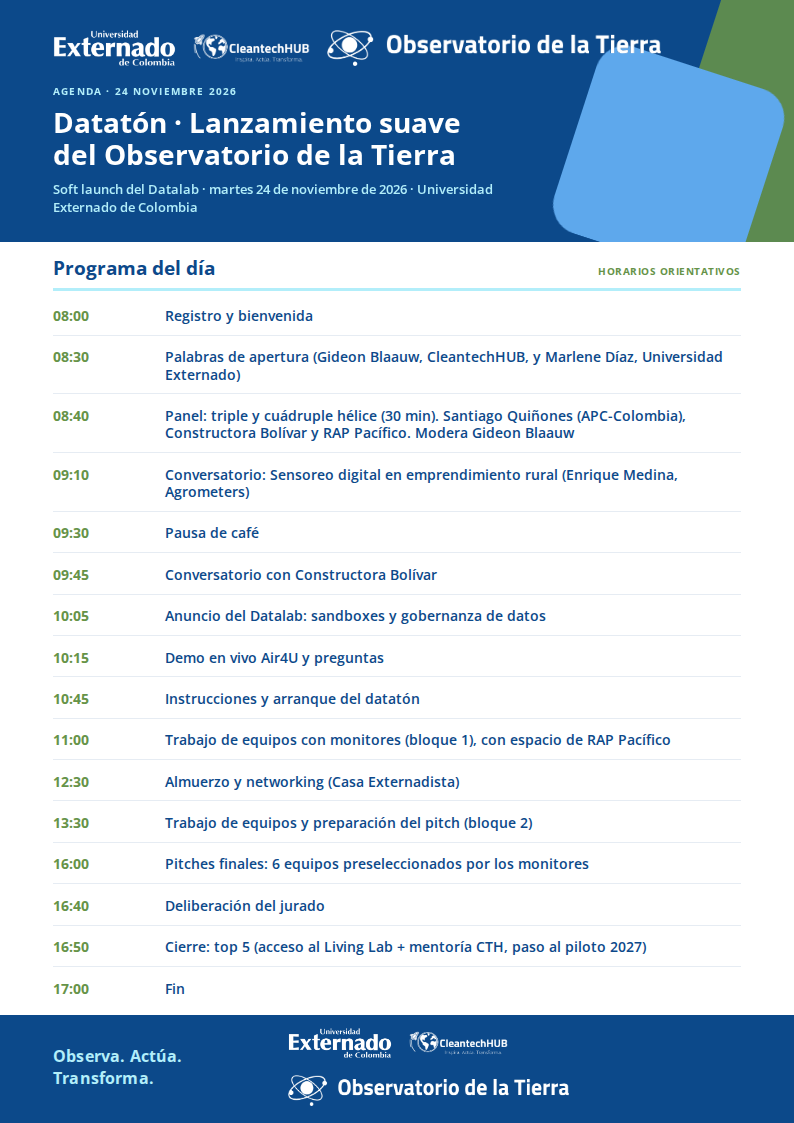
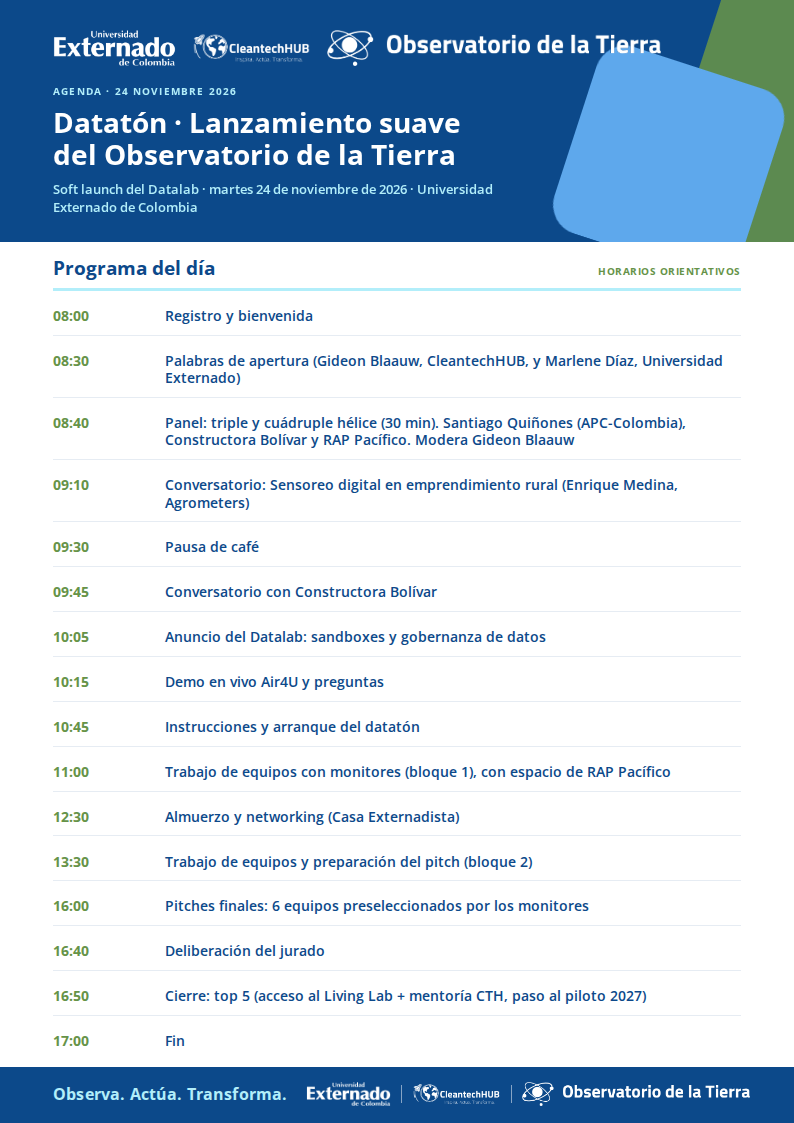
Fix agenda footer: one-line tagline and divided co-brand strip
Put tagline and Externado|CTH|Observatorio marks on a single navy band with thin dividers and 6-7mm logo heights.

diff --git a/decks/dataton-2026-agenda/agenda-dataton-24nov-v2.html b/decks/dataton-2026-agenda/agenda-dataton-24nov-v2.html
@@ -191,11 +191,13 @@
       flex-shrink: 0;
       background: var(--blue);
       color: #fff;
-      padding: 3.5mm 14mm 4.5mm;
+      padding: 3.5mm 14mm 4mm;
       display: flex;
+      flex-direction: row;
+      flex-wrap: nowrap;
       align-items: center;
       justify-content: space-between;
-      gap: 8mm;
+      gap: 5mm;
     }
     .tagline {
       font-weight: 700;
@@ -203,12 +205,30 @@
       color: var(--cyan);
       margin: 0;
       letter-spacing: 0.01em;
+      white-space: nowrap;
+      flex-shrink: 0;
+    }
+    .footer-cobrand {
+      display: flex;
+      flex-wrap: nowrap;
+      align-items: center;
+      flex-shrink: 0;
     }
     .footer-cobrand img {
-      height: 8mm;
+      height: 6.5mm;
       width: auto;
       display: block;
       object-fit: contain;
+    }
+    .footer-cobrand .logo-cth {
+      height: 7.1mm;
+    }
+    .cobrand-divider {
+      flex-shrink: 0;
+      width: 1px;
+      height: 5mm;
+      margin: 0 2.8mm;
+      background: rgba(255, 255, 255, 0.5);
     }
     .avoid-break { break-inside: avoid; page-break-inside: avoid; }
 
@@ -320,9 +340,11 @@
     </section>
     <footer class="footer">
       <p class="tagline">Observa. Actúa. Transforma.</p>
-      <div class="footer-cobrand cobrand-row" aria-label="Universidad Externado de Colombia · CleantechHUB · Observatorio de la Tierra">
+      <div class="footer-cobrand" aria-label="Universidad Externado de Colombia · CleantechHUB · Observatorio de la Tierra">
         <img src="logos/externado-white.png" alt=""/>
-        <img src="logos/cleantechhub-white.png" alt=""/>
+        <span class="cobrand-divider" aria-hidden="true"></span>
+        <img class="logo-cth" src="logos/cleantechhub-white.png" alt=""/>
+        <span class="cobrand-divider" aria-hidden="true"></span>
         <img src="logos/observatorio-white.png" alt=""/>
       </div>
     </footer>
